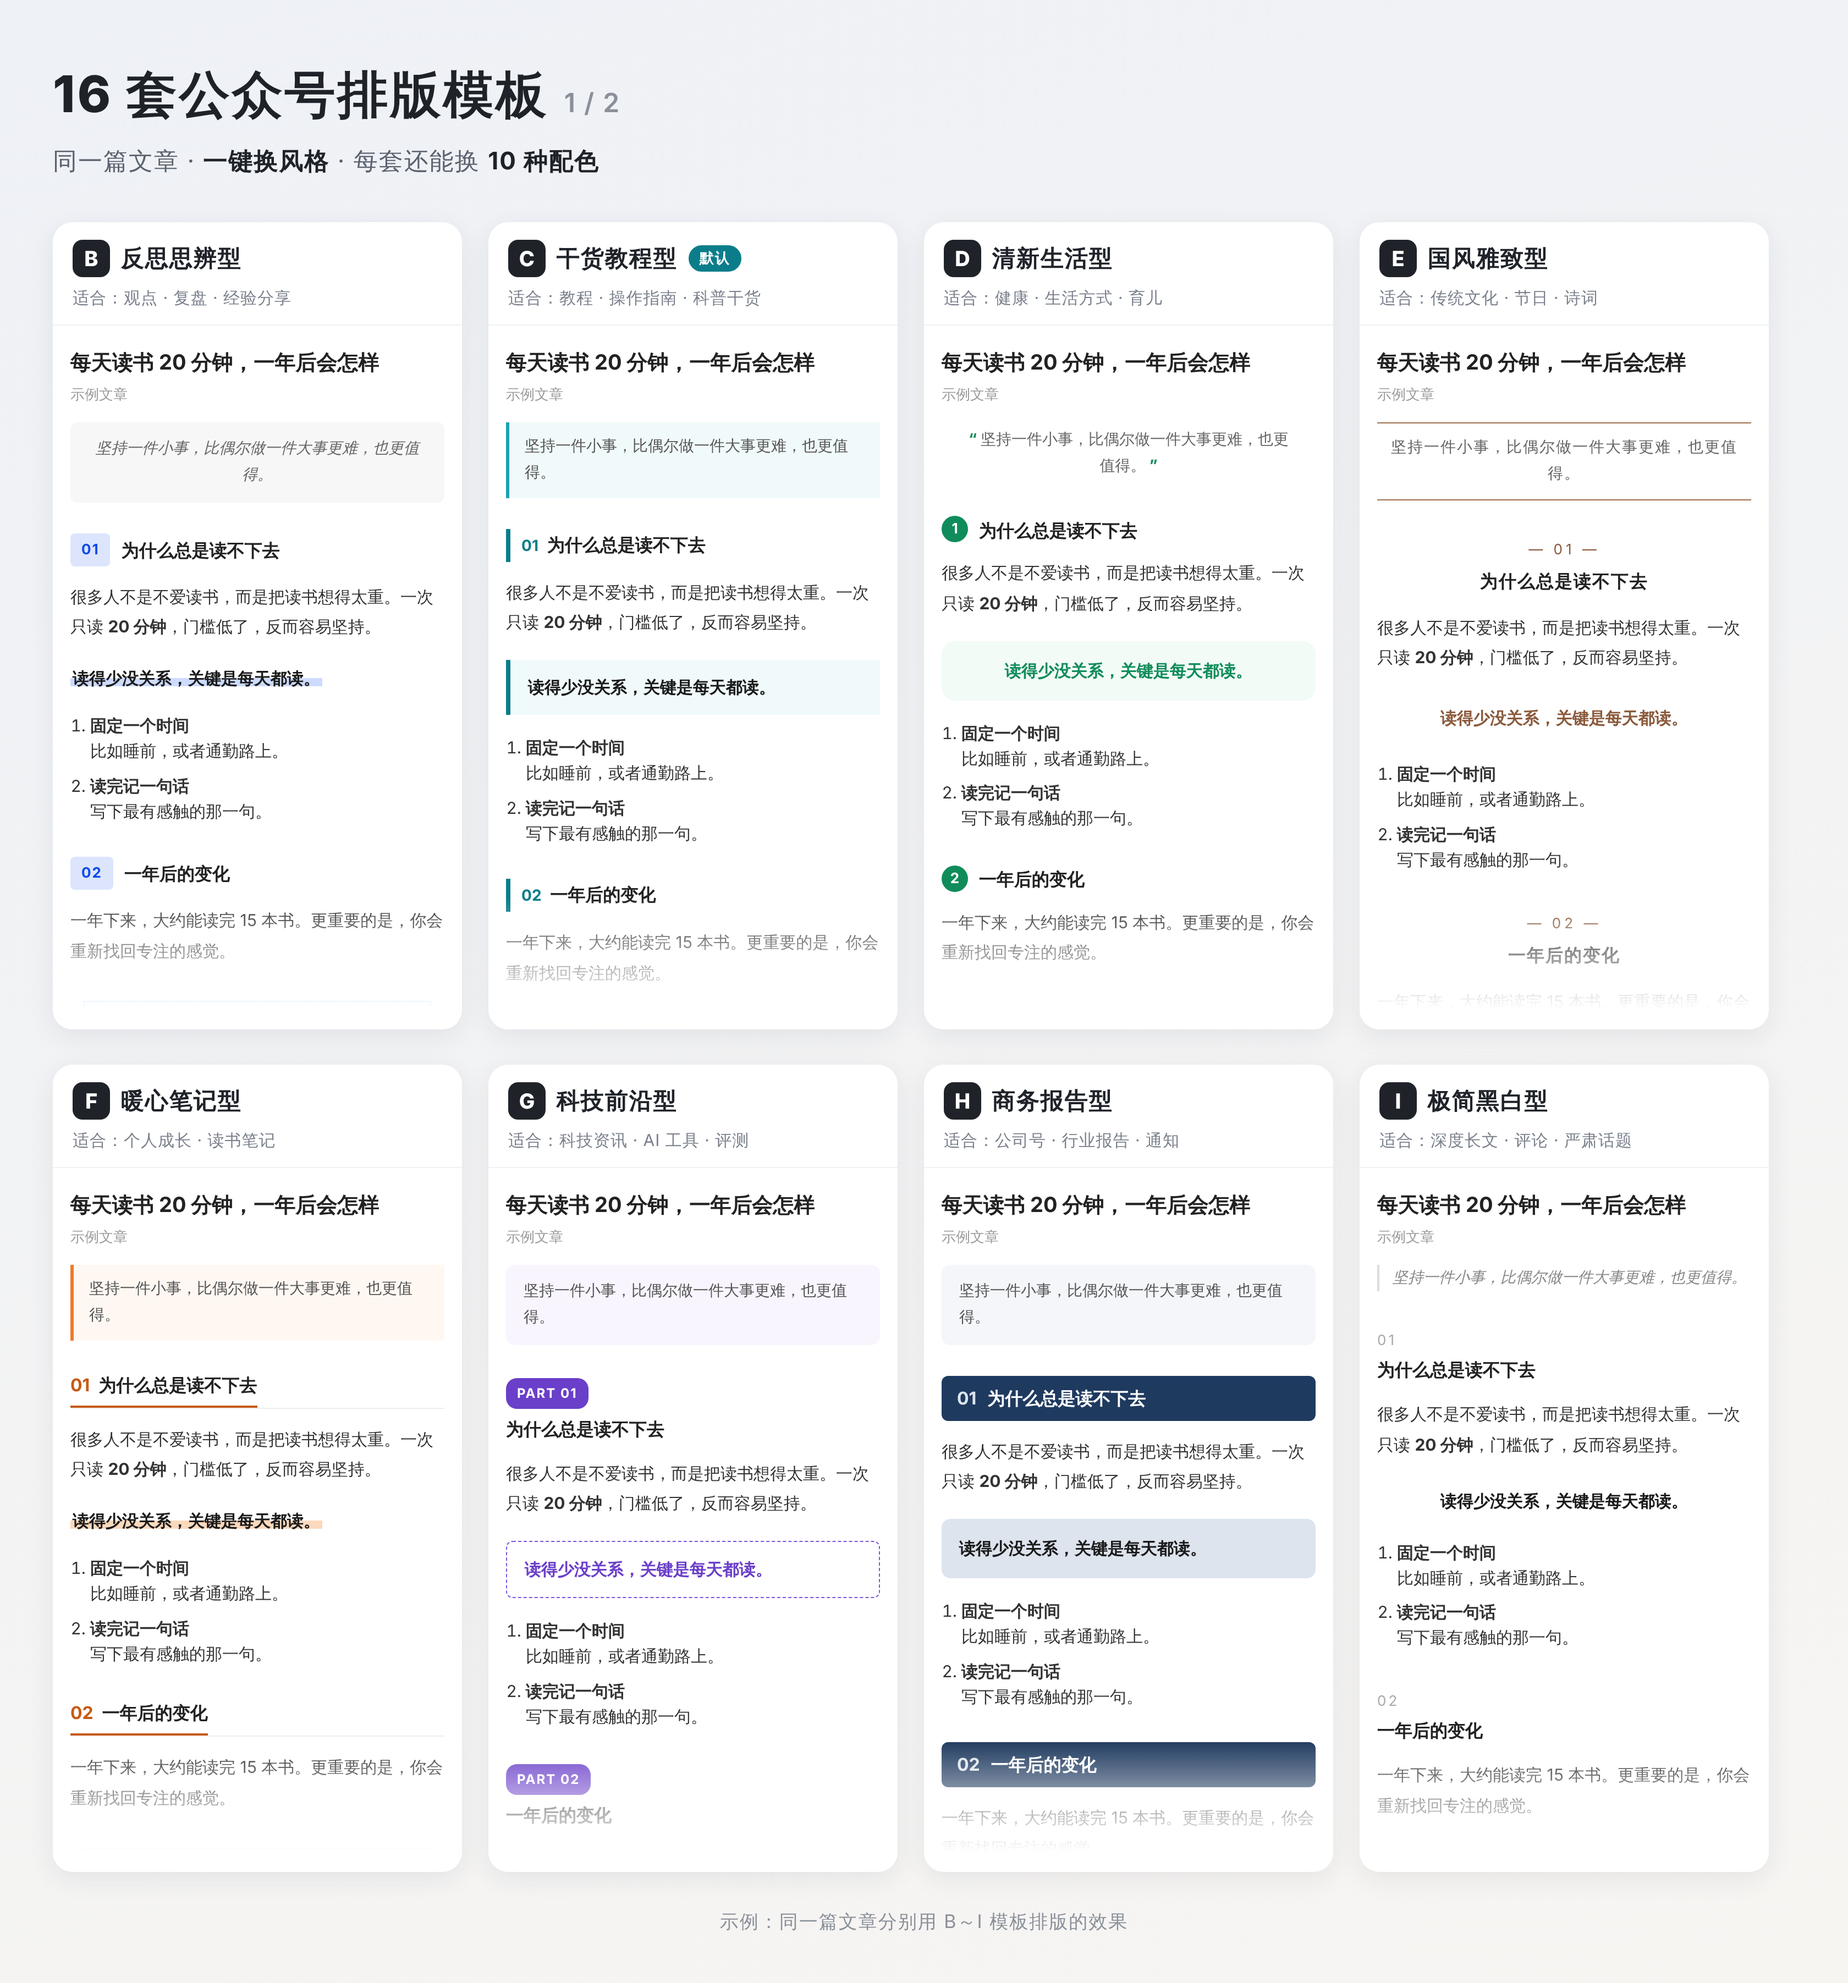
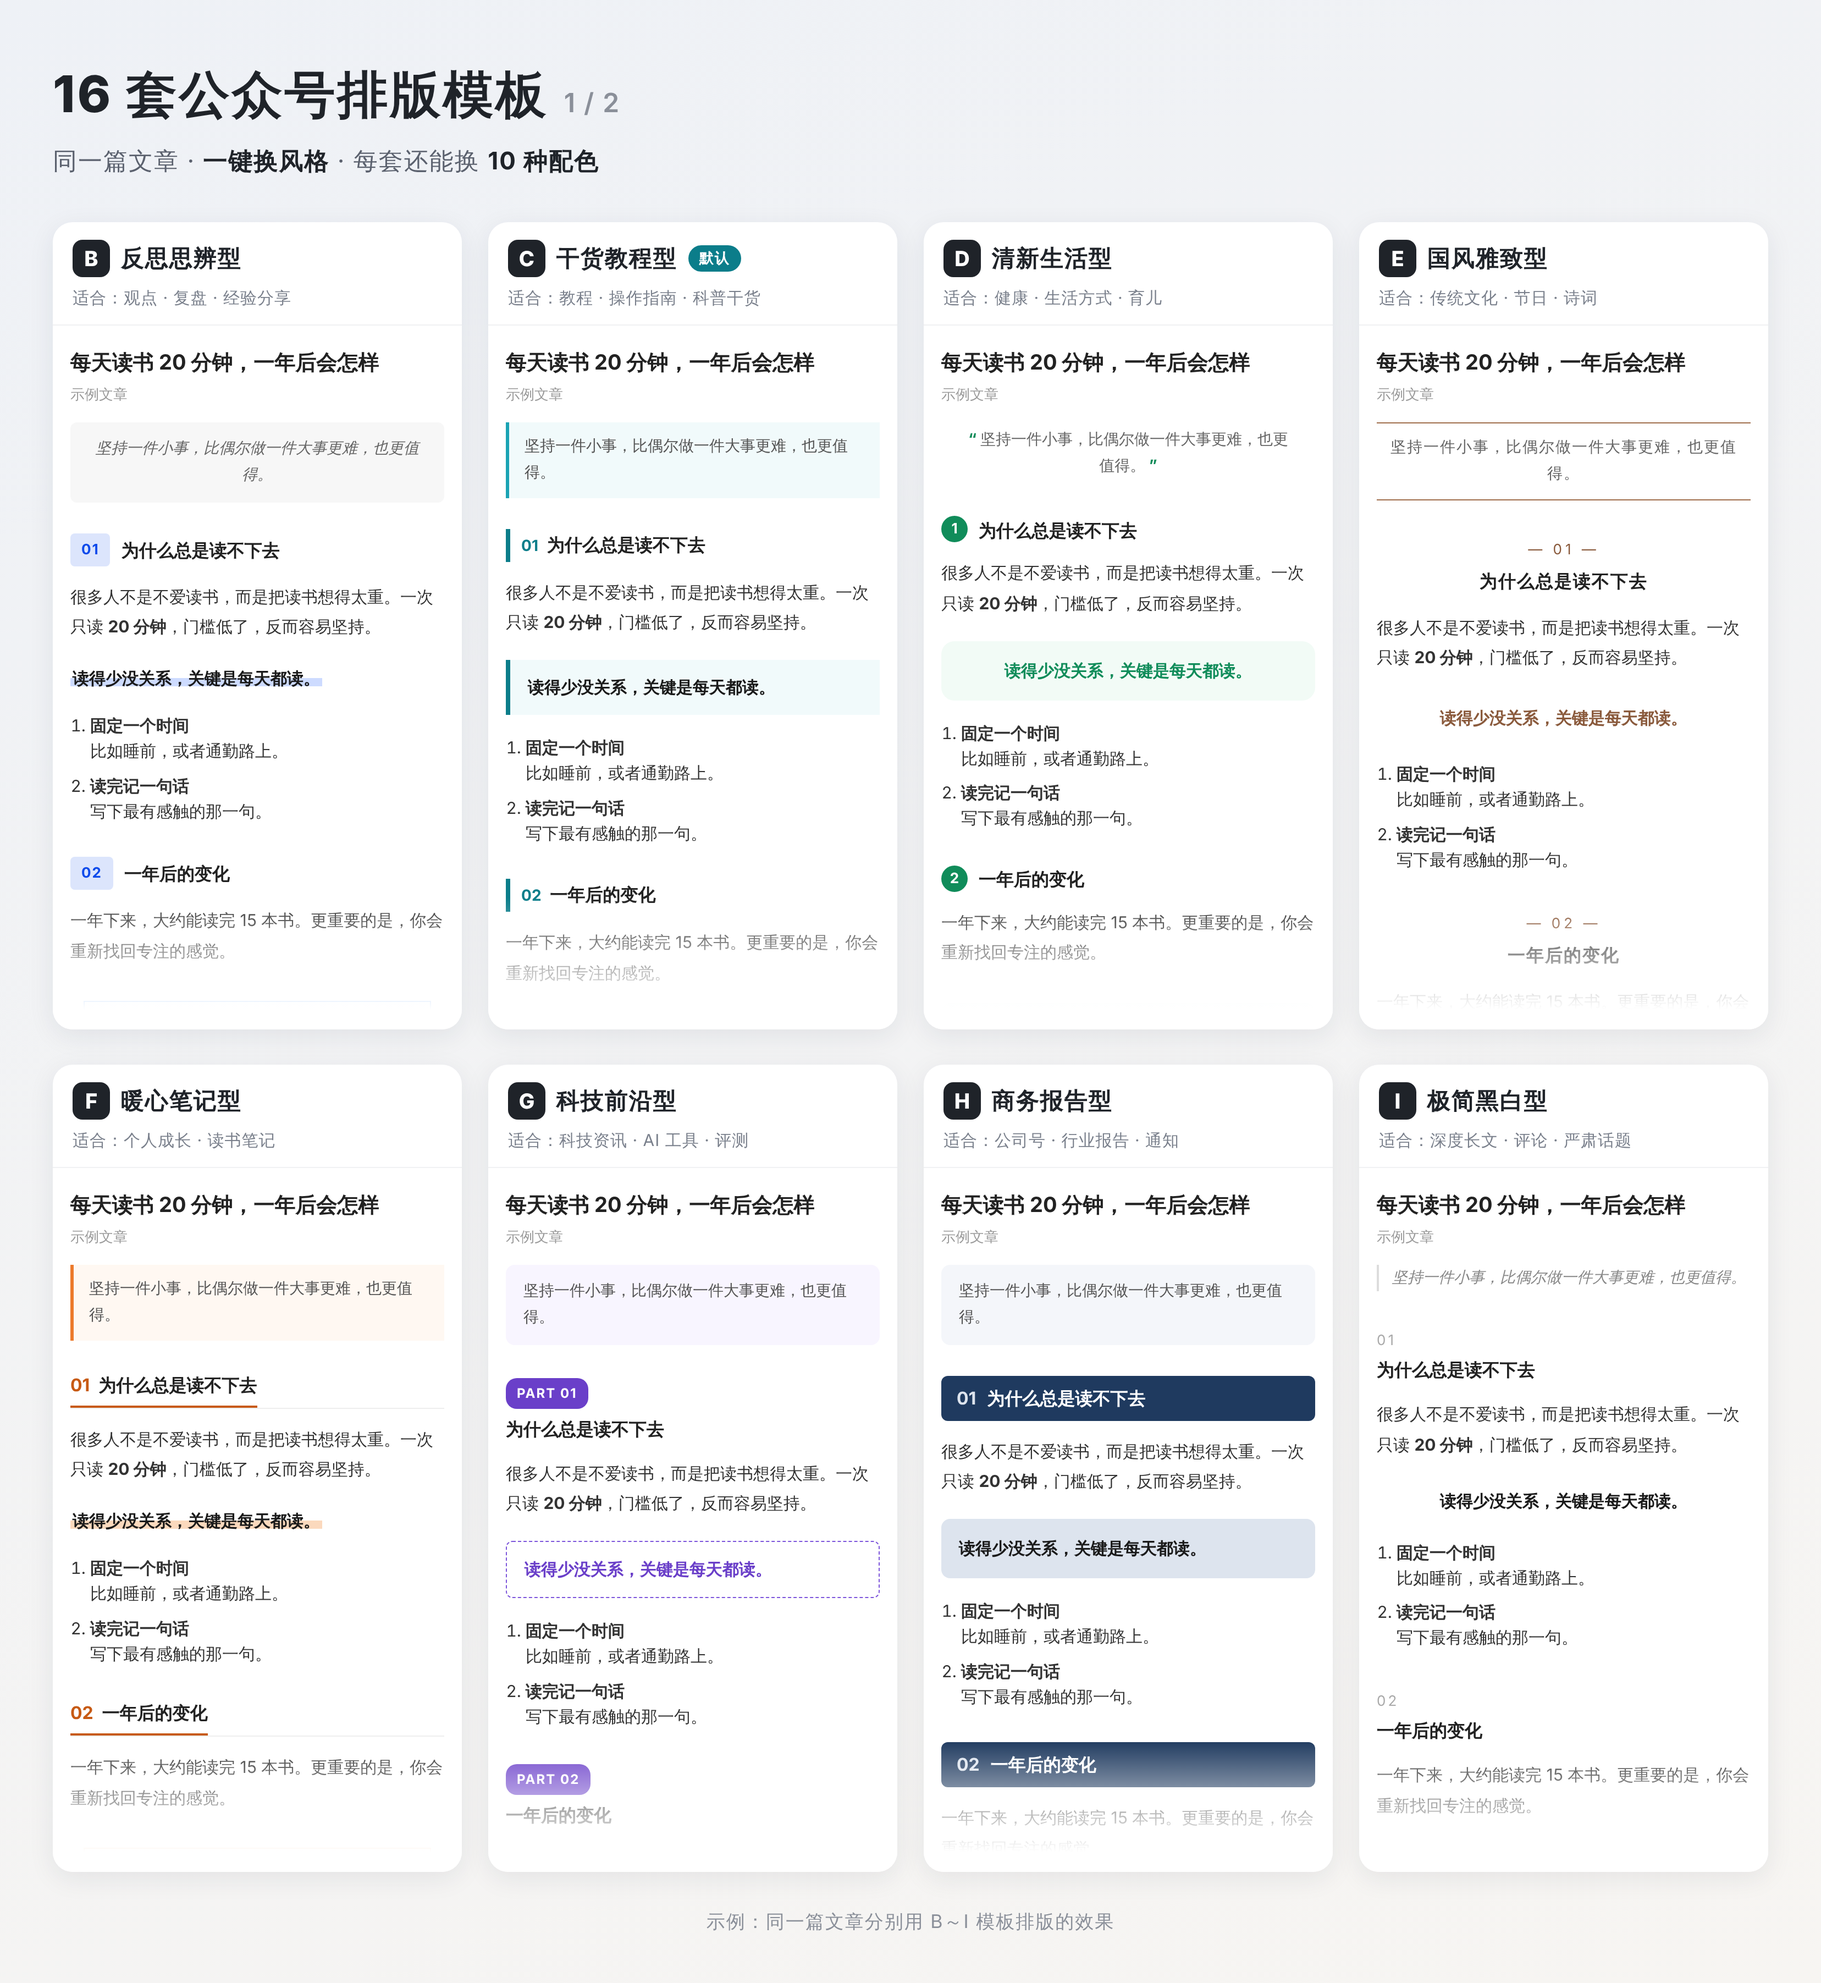
wechat-draft-push：展示图文件夹加入生成脚本
- 生成展示图.py：一条命令重新出图，套数、分组、文件名按现有模板自动算；--jpg 另出 2 列竖版 JPG（1MB 以内，给公众号文章用）
- 截图.js：用 Playwright 截图，由上面的脚本调用
- 示例文章.md：展示图用的示例稿
- 两张 PNG 用脚本重新生成：左右边距改为对称，模板内容不变

Claude-Session: https://claude.ai/code/session_01RkzuXhWU5eDmpzhcV9hzs9

diff --git a/wechat-draft-push/展示图/截图.js b/wechat-draft-push/展示图/截图.js
@@ -1,0 +1,26 @@
+// 把展示页 HTML 截成图片。由 生成展示图.py 调用，一般不用单独跑。
+// 用法：node 截图.js 任务.json
+// 任务.json：[{"html": "...", "out": "....png", "width": 1680, "scale": 2, "type": "png", "maxBytes": 0}, ...]
+// maxBytes > 0 时（文章配图要 1MB 以内），太大就降低清晰度重截。
+const fs = require('fs');
+const { chromium } = require('playwright');
+
+(async () => {
+  const jobs = JSON.parse(fs.readFileSync(process.argv[2], 'utf-8'));
+  const browser = await chromium.launch();
+  for (const job of jobs) {
+    const scales = job.maxBytes ? [job.scale, 1.25, 1].filter(s => s <= job.scale) : [job.scale];
+    for (const scale of scales) {
+      const page = await browser.newPage({ viewport: { width: job.width, height: 1000 }, deviceScaleFactor: scale });
+      await page.goto('file://' + job.html);
+      await page.waitForTimeout(300);
+      const opts = { path: job.out, fullPage: true, type: job.type };
+      if (job.type === 'jpeg') opts.quality = 82;
+      await page.screenshot(opts);
+      await page.close();
+      if (!job.maxBytes || fs.statSync(job.out).size <= job.maxBytes) break;
+    }
+    console.log(job.out);
+  }
+  await browser.close();
+})();

diff --git a/wechat-draft-push/展示图/生成展示图.py b/wechat-draft-push/展示图/生成展示图.py
@@ -1,0 +1,125 @@
+#!/usr/bin/env python3
+"""重新生成模板展示图：每张拼 8 套模板，用同一篇示例文章排版。
+
+    python3 生成展示图.py                  # 生成 4 列的 PNG 拼图，放在本文件夹（覆盖旧图）
+    python3 生成展示图.py --jpg 某个文件夹   # 另外生成 2 列竖版 JPG（1MB 以内），适合放进公众号文章
+
+模板有增减时不用改这里：套数、分组、文件名都按 scripts/templates/ 里的模板自动算。
+新加的模板记得在下面 SCENE 里补一句"适合什么文章"。
+
+需要 Node.js 和 Playwright（截图用）：npm install playwright && npx playwright install chromium
+"""
+from __future__ import annotations
+
+import argparse
+import html
+import json
+import shutil
+import subprocess
+import sys
+import tempfile
+from pathlib import Path
+
+HERE = Path(__file__).resolve().parent
+SKILL = HERE.parent
+sys.dont_write_bytecode = True  # 不在 Skill 目录里留 __pycache__
+sys.path.insert(0, str(SKILL / "scripts"))
+import wechat  # noqa: E402
+
+PER_IMAGE = 8
+SCENE = {
+    "b": "观点 · 复盘 · 经验分享", "c": "教程 · 操作指南 · 科普干货", "d": "健康 · 生活方式 · 育儿",
+    "e": "传统文化 · 节日 · 诗词", "f": "个人成长 · 读书笔记", "g": "科技资讯 · AI 工具 · 评测",
+    "h": "公司号 · 行业报告 · 通知", "i": "深度长文 · 评论 · 严肃话题", "j": "情感 · 故事 · 人物访谈",
+    "k": "人物 · 品牌故事 · 生活方式", "l": "随笔 · 读书 · 旅行记录", "m": "研究解读 · 文献 · 专业内容",
+    "n": "活动预告 · 产品发布 · 招募", "o": "好物推荐 · 清单 · 攻略", "p": "说明文 · 概念 / 流程讲解",
+    "q": "介绍文 · 机构 / 产品 / 人物",
+}
+
+CSS = """
+*{box-sizing:border-box;margin:0;padding:0}
+body{width:%(page)dpx;background:linear-gradient(160deg,#eef1f6 0%%,#f7f5f2 100%%);
+ font-family:-apple-system,"PingFang SC","Noto Sans CJK SC","Microsoft YaHei",sans-serif;color:#1f2329;padding:56px 48px 44px}
+header{margin-bottom:40px}
+h1{font-size:%(h1)dpx;font-weight:800;letter-spacing:2px}
+h1 small{font-size:24px;font-weight:600;color:#8a8f99;margin-left:14px;letter-spacing:1px}
+.sub{margin-top:14px;font-size:%(sub)dpx;color:#5b616e;letter-spacing:1px}
+.sub b{color:#1f2329}
+.grid{display:grid;grid-template-columns:repeat(%(cols)d,372px);gap:32px 24px}
+.tile{background:#fff;border-radius:18px;box-shadow:0 6px 24px rgba(30,40,60,.08);overflow:hidden}
+.head{padding:16px 18px 14px;border-bottom:1px solid #f0f1f3}
+.row{display:flex;align-items:center;gap:10px}
+.letter{width:34px;height:34px;border-radius:9px;background:#1f2329;color:#fff;font-size:19px;font-weight:800;
+ display:flex;align-items:center;justify-content:center}
+.name{font-size:21px;font-weight:700;letter-spacing:1px}
+.def{font-size:13px;font-weight:700;color:#fff;background:#0b7d8a;border-radius:20px;padding:3px 10px;letter-spacing:1px}
+.scene{margin-top:9px;font-size:15px;color:#7a808c;letter-spacing:.5px}
+.screen{position:relative;height:640px;overflow:hidden;padding:20px 16px 0}
+.screen h2{font-size:19px;line-height:1.45;font-weight:700;color:#222;margin-bottom:6px}
+.screen .meta{font-size:13px;color:#9a9a9a;margin-bottom:16px}
+.screen .content{font-size:15px;color:#333;word-wrap:break-word}
+.screen .content p{margin:0}
+.screen .content .list-paddingleft-1{padding-left:1.2em}
+.screen:after{content:"";position:absolute;left:0;right:0;bottom:0;height:120px;
+ background:linear-gradient(rgba(255,255,255,0),#fff 85%%)}
+footer{margin-top:34px;font-size:17px;color:#8a8f99;text-align:center;letter-spacing:1px}
+"""
+
+
+def page_html(group: list[str], k: int, total: int, count: int, meta: dict, body: str, cols: int) -> str:
+    palettes = len(getattr(sys.modules.get("_engine"), "PALETTES", {})) or 10
+    tiles = []
+    for n in group:
+        tpl = wechat.load_template(n)
+        frag = wechat.compile_html(meta, body, {}, n)
+        badge = '<span class="def">默认</span>' if n == wechat.DEFAULT_TEMPLATE else ''
+        scene = f'<div class="scene">适合：{SCENE[n]}</div>' if n in SCENE else ''
+        tiles.append(
+            f'<div class="tile"><div class="head"><div class="row"><span class="letter">{n.upper()}</span>'
+            f'<span class="name">{html.escape(getattr(tpl, "NAME", n))}</span>{badge}</div>{scene}</div>'
+            f'<div class="screen"><h2>{html.escape(meta["title"])}</h2><div class="meta">示例文章</div>'
+            f'<div class="content">{frag}</div></div></div>')
+    wide = cols >= 4
+    css = CSS % dict(page=cols * 372 + (cols - 1) * 24 + 96, cols=cols, h1=46 if wide else 38, sub=22 if wide else 20)
+    return (f'<!doctype html><html lang="zh-CN"><head><meta charset="utf-8"><style>{css}</style></head><body>'
+            f'<header><h1>{count} 套公众号排版模板<small>{k} / {total}</small></h1>'
+            f'<p class="sub">同一篇文章 · <b>一键换风格</b> · 每套还能换 <b>{palettes} 种配色</b></p></header>'
+            f'<div class="grid">{"".join(tiles)}</div>'
+            f'<footer>示例：同一篇文章分别用 {group[0].upper()}～{group[-1].upper()} 模板排版的效果</footer>'
+            f'</body></html>')
+
+
+def main() -> None:
+    ap = argparse.ArgumentParser(description="重新生成模板展示图")
+    ap.add_argument("--jpg", type=Path, help="另外生成 2 列竖版 JPG 到这个文件夹（给公众号文章用）")
+    args = ap.parse_args()
+    if not shutil.which("node"):
+        sys.exit("[停止] 没找到 Node.js。截图要用 Node.js 和 Playwright，见本文件开头的说明")
+
+    meta, body = wechat.parse_article(HERE / "示例文章.md")
+    names = wechat.template_names()
+    groups = [names[i:i + PER_IMAGE] for i in range(0, len(names), PER_IMAGE)]
+    jobs = []
+    with tempfile.TemporaryDirectory() as tmp:
+        for k, group in enumerate(groups, 1):
+            label = f"{group[0].upper()}-{group[-1].upper()}"
+            src = Path(tmp) / f"g{k}.html"
+            src.write_text(page_html(group, k, len(groups), len(names), meta, body, 4), encoding="utf-8")
+            jobs.append(dict(html=str(src), out=str(HERE / f"模板展示-{k}（{label}）.png"),
+                             width=4 * 372 + 3 * 24 + 96, scale=2, type="png", maxBytes=0))
+            if args.jpg:
+                args.jpg.mkdir(parents=True, exist_ok=True)
+                src2 = Path(tmp) / f"g{k}-2col.html"
+                src2.write_text(page_html(group, k, len(groups), len(names), meta, body, 2), encoding="utf-8")
+                jobs.append(dict(html=str(src2), out=str(args.jpg.resolve() / f"模板展示-{k}.jpg"),
+                                 width=2 * 372 + 24 + 96, scale=1.5, type="jpeg", maxBytes=950_000))
+        job_file = Path(tmp) / "jobs.json"
+        job_file.write_text(json.dumps(jobs, ensure_ascii=False), encoding="utf-8")
+        result = subprocess.run(["node", str(HERE / "截图.js"), str(job_file)])
+        if result.returncode:
+            sys.exit("[停止] 截图失败。没装 Playwright 的话：npm install playwright && npx playwright install chromium")
+    print(f"完成：{len(names)} 套模板，{len(groups)} 张图")
+
+
+if __name__ == "__main__":
+    main()

diff --git a/wechat-draft-push/README.md b/wechat-draft-push/README.md
@@ -34,6 +34,6 @@
 - `references/模板一览.md`：每套模板长什么样、适合什么文章、怎么换颜色
 - `references/自制模板.md`：照着喜欢的公众号，让 AI 做一套自己的模板
 - `examples/示例文章.md`：第一次用来测试的示例
-- `展示图/`：16 套模板的效果拼图（两张，每张 8 套），可以直接拿去给别人看
+- `展示图/`：16 套模板的效果拼图（两张，每张 8 套），可以直接拿去给别人看；模板有改动时，跑里面的 `生成展示图.py` 重新出图
 
 配置文件放在 `~/.wechat-draft-push/.env`，不在这个文件夹里，所以把这个文件夹分享给别人不会带出你的密钥。

diff --git a/wechat-draft-push/展示图/示例文章.md b/wechat-draft-push/展示图/示例文章.md
@@ -1,0 +1,21 @@
+---
+title: 每天读书 20 分钟，一年后会怎样
+footer: 文字 · 小林 / 出品 · 读书笔记
+---
+
+> 坚持一件小事，比偶尔做一件大事更难，也更值得。
+
+## 一、为什么总是读不下去
+
+很多人不是不爱读书，而是把读书想得太重。一次只读 **20 分钟**，门槛低了，反而容易坚持。
+
+>> 读得少没关系，关键是每天都读。
+
+1. **固定一个时间**
+   比如睡前，或者通勤路上。
+2. **读完记一句话**
+   写下最有感触的那一句。
+
+## 二、一年后的变化
+
+一年下来，大约能读完 15 本书。更重要的是，你会重新找回专注的感觉。
